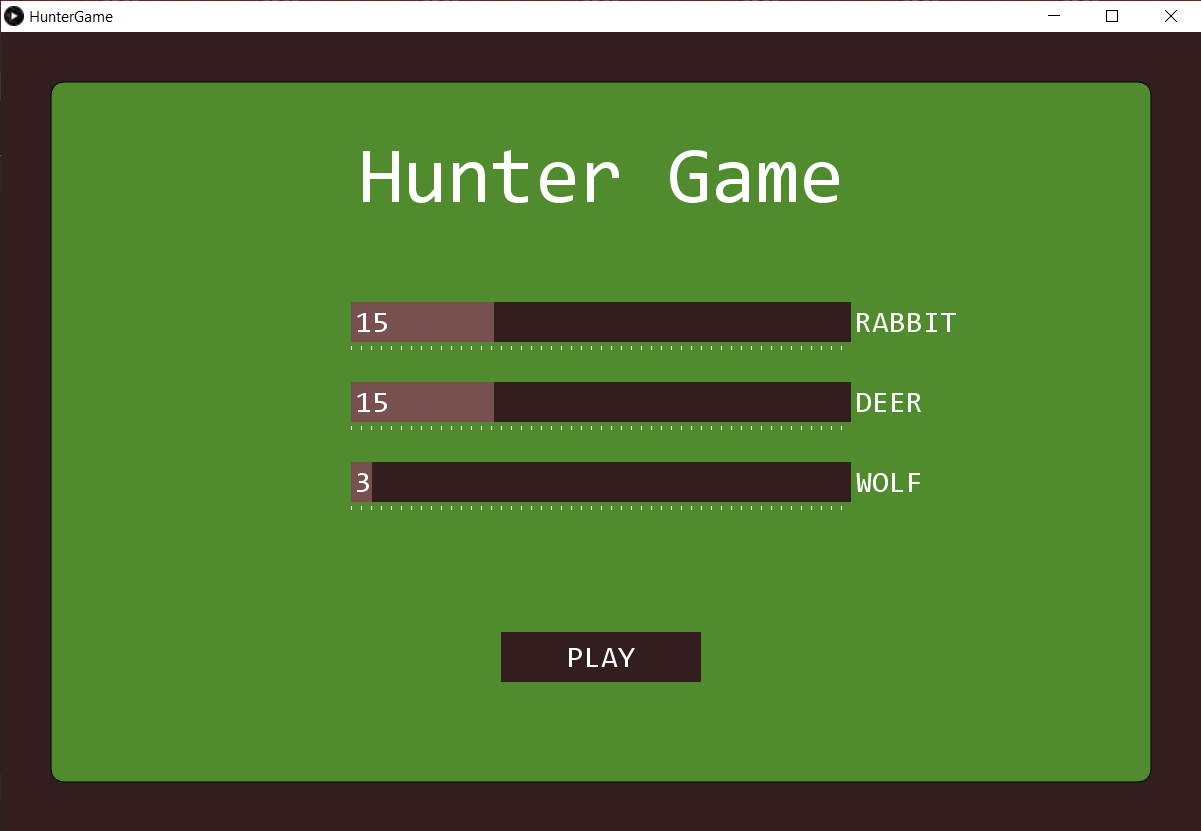
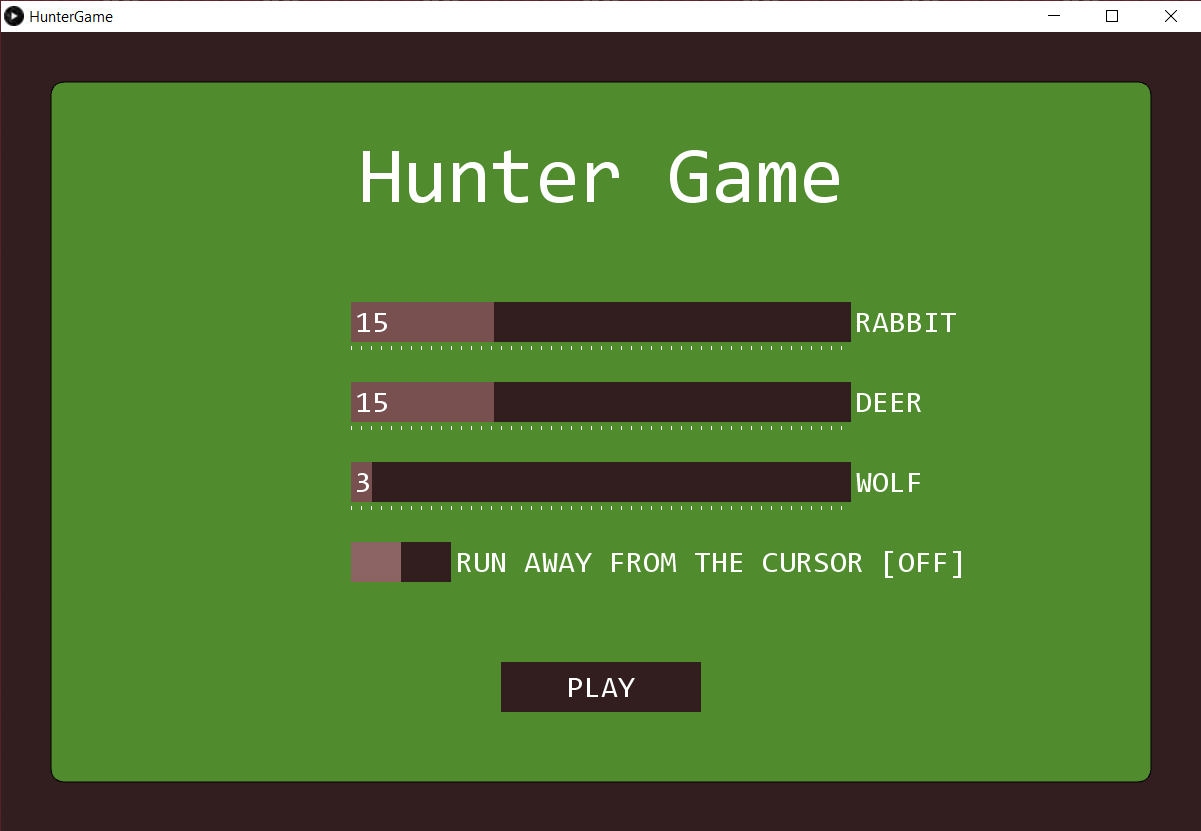
add new feature

Changed region(s): [[0.4005, 0.7521, 0.5853, 0.8724], [0.2773, 0.6318, 0.801, 0.722]]

diff --git a/README.md b/README.md
@@ -11,9 +11,10 @@
 Для роботи вимагає, щоб на ПК був встановлений [JDK 8](https://java.com/en/download/).
 
 Гравець керує мисливцем, який може рухатись в усі сторони (стрілочками або WASD) та стріляти на певну відстань за допомогою мишки. 
-Після попадання у здобич, вона гине. Кількість патронів у мисливця обмежена (100 штук). Мета гри - залишитися єдиною особою на полі.
+Після попадання у здобич, вона гине. Кількість патронів у мисливця обмежена (100 штук). Мета гри - залишитися єдиною особою на полі.  
 
-Меню гри, де можна налаштувати кількість особин різних тварин:
+У меню гри можна налаштувати кількість особин різних тварин. 
+До загальних правил додана ще цікава функція, яку можна теж налаштовувати у меню - зайці і лані будуть тікати від курсора миші (прицілу):
 ![Menu](img/menu.png)
 
 Нижче наведено ігровий процес.  
